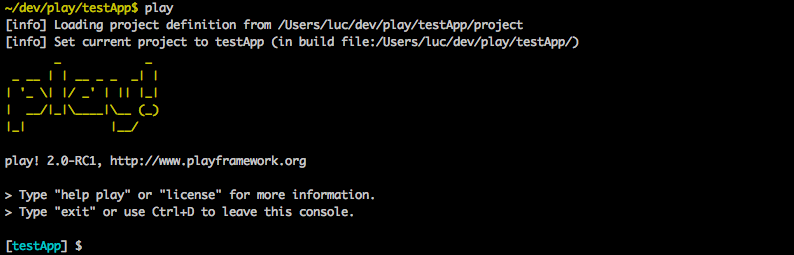
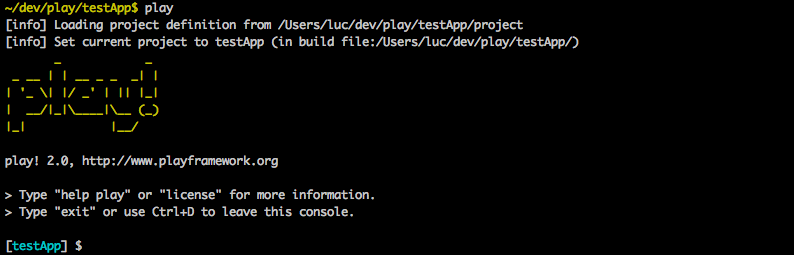
Updated the Play guide for 2.0 release

Changed region(s): [[0.0907, 0.6039, 0.3929, 0.6588]]

diff --git a/tutorials/play20scalaide20/index-fr.rst b/tutorials/play20scalaide20/index-fr.rst
@@ -32,7 +32,7 @@ Installer Play 2.0
 
 Pour pouvoir créer une web application Play, Play framework est nécessaire. Si vous ne l'avez pas encore installé, suivez ces quelques étapes, ou utilisez la `documentation de Play`__.
 
-*   Téléchargez Play framework 2.0-RC1 sur http://www.playframework.org/2.0.
+*   Téléchargez Play framework 2.0 sur http://www.playframework.org/2.0.
 
 *   Un-zippez l'archive dans votre répertoire préféré. Nous utiliserons ``/path/to/play20`` dans ce document.
 
@@ -201,7 +201,7 @@ Modifions la page principale pour afficher une citation à la place de la page d
 
        @(message: String, quote: models.Quote)
        
-       @main("Welcome to Play 2.0 beta") {
+       @main("Welcome to Play 2.0") {
            
            <p>@quote.text<em> - @quote.author</em></p>
        
@@ -261,8 +261,7 @@ Luc Bourlier - `+Luc Bourlier`_ `@sky1uc`_
 .. _Scala IDE: http://www.scala-ide.org
 .. _Scala IDE documentation project: https://github.com/scala-ide/docs
 .. _Eclipse: http://www.eclipse.org/
-.. _Play documentation: https://github.com/playframework/Play20/wiki/Installing
-.. _eclipsify: https://github.com/musk/SbtEclipsify
+.. _Play documentation: http://www.playframework.org/documentation/2.0/Installing
 .. _sbteclipse: https://github.com/typesafehub/sbteclipse
 .. _embedded documentation: http://localhost:9000/@documentation/Home
 .. _documentation website: http://docs.scala-lang.org/

diff --git a/tutorials/play20scalaide20/index.rst b/tutorials/play20scalaide20/index.rst
@@ -28,7 +28,7 @@ Setting up Play 2.0
 
 To be able to create a Play web application, the Play framework need to be installed. If you have not installed it already, follow this few steps, or use the `Play documentation`_.
 
-*   Download Play framework 2.0-RC1 from http://www.playframework.org/2.0.
+*   Download Play framework 2.0 from http://www.playframework.org/.
 
 *   Unzip it in your preferred location. Let's say ``/path/to/play20`` for the purpose of this document.
 
@@ -195,7 +195,7 @@ Let's change the main page to display a quote instead of the default page.
 
        @(message: String, quote: models.Quote)
        
-       @main("Welcome to Play 2.0 beta") {
+       @main("Welcome to Play 2.0") {
        
            <p>@quote.text<em> - @quote.author</em></p>
        
@@ -249,8 +249,7 @@ Luc Bourlier - `+Luc Bourlier`_ `@sky1uc`_
 .. _Scala IDE: http://www.scala-ide.org
 .. _Scala IDE documentation project: https://github.com/scala-ide/docs
 .. _Eclipse: http://www.eclipse.org/
-.. _Play documentation: https://github.com/playframework/Play20/wiki/Installing
-.. _eclipsify: https://github.com/musk/SbtEclipsify
+.. _Play documentation: http://www.playframework.org/documentation/2.0/Installing
 .. _sbteclipse: https://github.com/typesafehub/sbteclipse
 .. _embedded documentation: http://localhost:9000/@documentation/Home
 .. _documentation website: http://docs.scala-lang.org/
